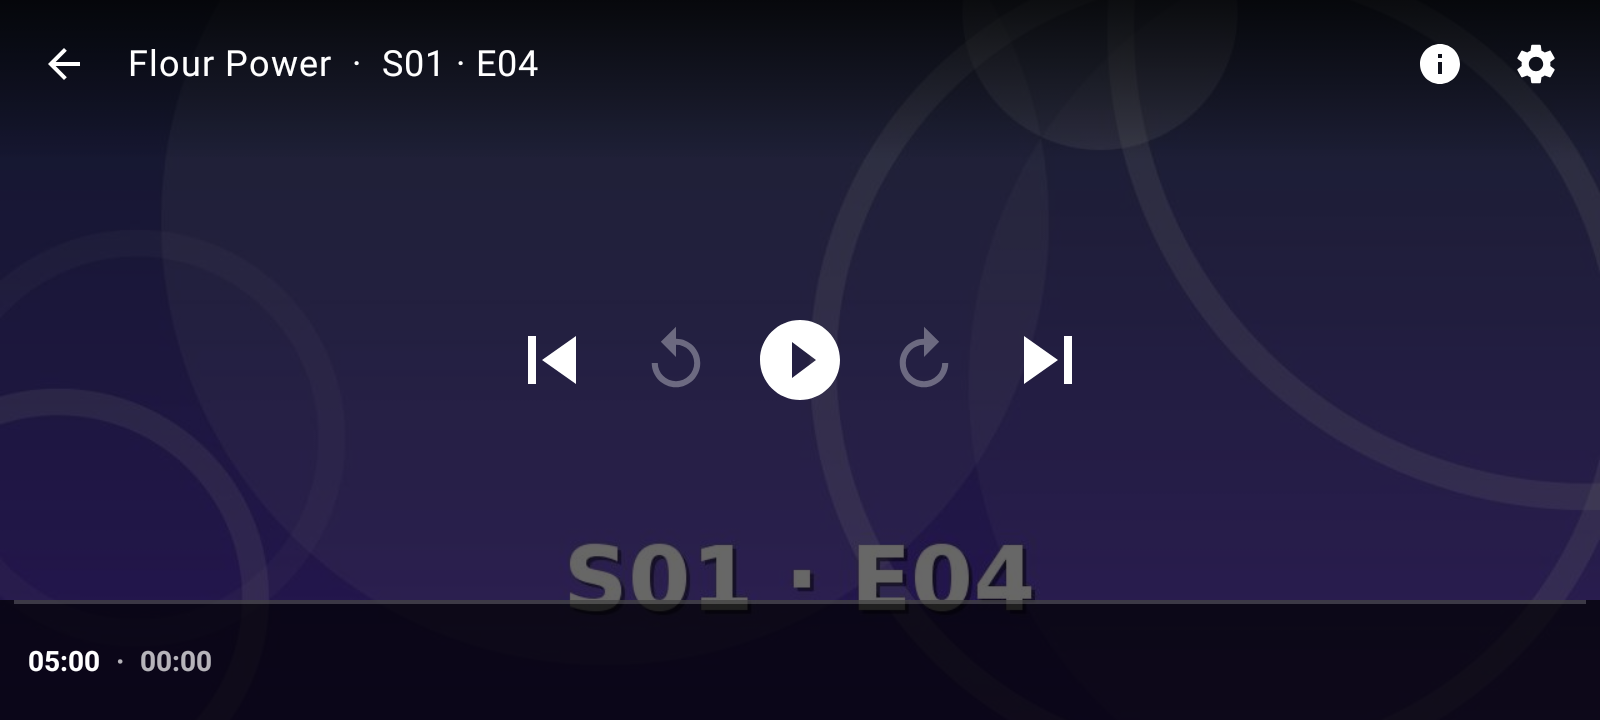
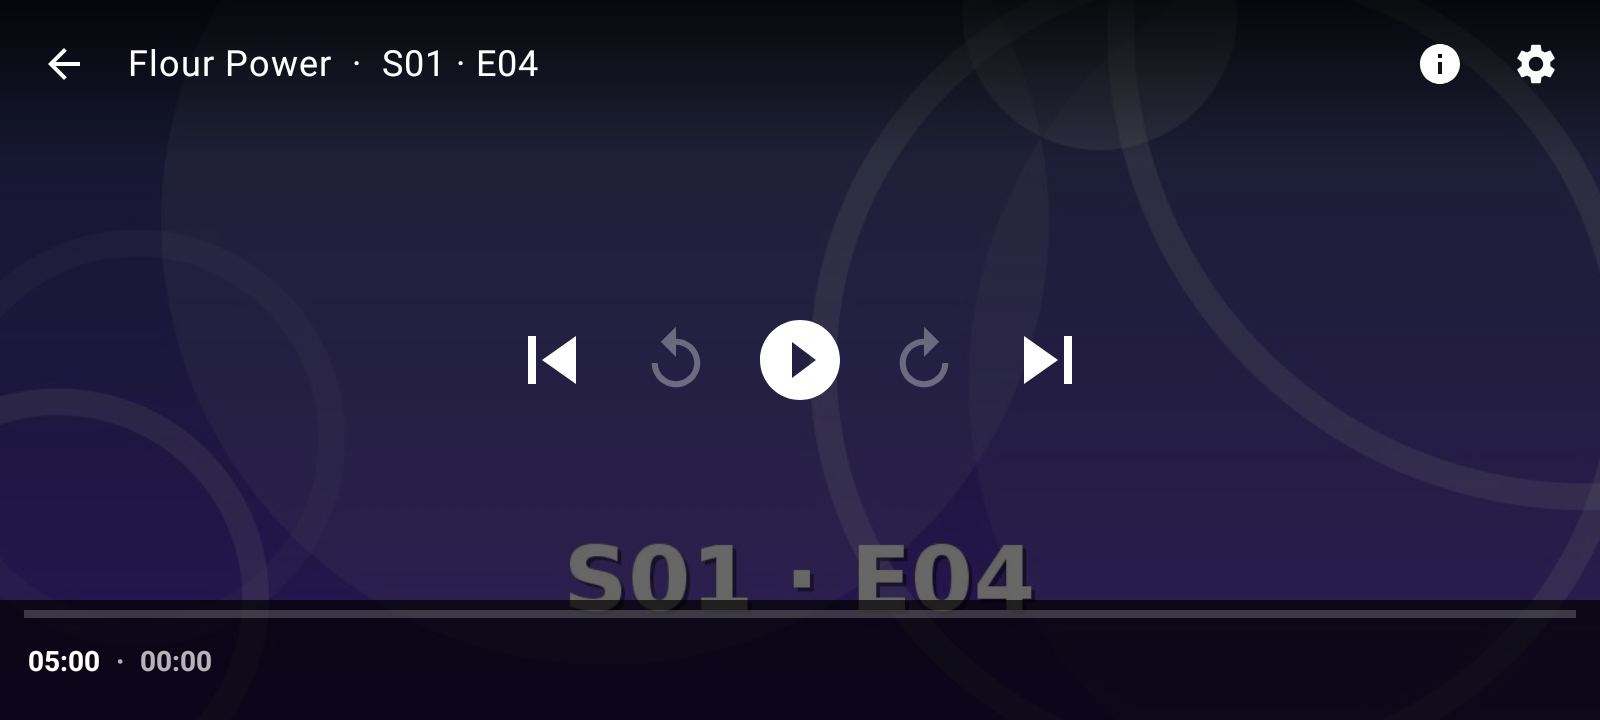
* player touch: larger seek bar target, edges left to Android, accent colour above 100 % (closes #164) (#165)
* seek bar takes touches over 80 dp, thumb larger, line centred in its band
* a swipe from the screen edges and corners no longer changes volume or brightness
* volume and brightness above 100 % show in the accent colour
* closes #164

Changed region(s): [[0.0, 0.825, 1.0, 0.8556]]

diff --git a/app/src/main/kotlin/com/hawkynt/mediadroid/ui/PlayerGestures.kt b/app/src/main/kotlin/com/hawkynt/mediadroid/ui/PlayerGestures.kt
@@ -9,7 +9,15 @@ import androidx.compose.ui.Modifier
 import androidx.compose.ui.geometry.Offset
 import androidx.compose.ui.input.pointer.pointerInput
 import androidx.compose.ui.input.pointer.positionChange
+import androidx.compose.ui.unit.dp
+import com.hawkynt.mediadroid.player.PlaybackMath
 import kotlin.math.abs
+
+/** How far in from the left and right edge the back gesture reaches. */
+private val SIDE_BAND = 28.dp
+
+/** How far in from the top and bottom edge the status bar and navigation are reached. */
+private val END_BAND = 72.dp
 
 /** Which half of the picture a gesture started on. */
 enum class Side { LEFT, RIGHT }
@@ -18,7 +26,8 @@ enum class Side { LEFT, RIGHT }
  * The touch language of the streaming apps' players, on the bare picture:
  * - tap: controls on or off,
  * - double tap: [onDoubleTap] with the half tapped (left back, right ahead),
- * - one-finger vertical swipe: [onSwipe] with the half and how far up, as a fraction of the height,
+ * - one-finger vertical swipe: [onSwipe] with the half and how far up, as a fraction of the height; not from
+ *   the screen's edges and corners, which stay with Android's own gestures,
  * - two fingers: [onPinch] with the zoom factor and the pan of this movement.
  */
 fun Modifier.playerGestures(
@@ -39,6 +48,14 @@ fun Modifier.playerGestures(
         awaitEachGesture {
             val down = awaitFirstDown(requireUnconsumed = false)
             val side = if (down.position.x < size.width / 2) Side.LEFT else Side.RIGHT
+            val mayLevel = PlaybackMath.startsLevelSwipe(
+                down.position.x,
+                down.position.y,
+                size.width.toFloat(),
+                size.height.toFloat(),
+                SIDE_BAND.toPx(),
+                END_BAND.toPx(),
+            )
             var swiping = false
             var travelled = Offset.Zero
             while (true) {
@@ -53,7 +70,7 @@ fun Modifier.playerGestures(
                 }
                 val change = pressed.first()
                 val delta = change.positionChange()
-                if (!swiping) {
+                if (!swiping && mayLevel) {
                     travelled += delta
                     // Only a mainly vertical movement past the slop is a swipe; a tap stays a tap.
                     if (abs(travelled.y) > slop && abs(travelled.y) > abs(travelled.x) * 1.5f) swiping = true

diff --git a/app/src/main/kotlin/com/hawkynt/mediadroid/ui/PlayerScreen.kt b/app/src/main/kotlin/com/hawkynt/mediadroid/ui/PlayerScreen.kt
@@ -488,8 +488,11 @@ fun PlayerScreen(
     // Short-lived on-screen confirmation of a gesture: "+15 s", "Volume 40 %".
     var feedback by remember { mutableStateOf<String?>(null) }
     var feedbackStamp by remember { mutableIntStateOf(0) }
-    fun show(text: String) {
+    // Whether the shown text is a level past the device's maximum, which shows in the accent colour.
+    var feedbackBoosted by remember { mutableStateOf(false) }
+    fun show(text: String, boosted: Boolean = false) {
         feedback = text
+        feedbackBoosted = boosted
         feedbackStamp++
     }
     // Holding a skip button (on screen or on a remote) steps further the longer it is held; the target
@@ -889,13 +892,13 @@ fun PlayerScreen(
                         screenBrightness = brightness.coerceIn(0.01f, 1f)
                     }
                 }
-                show("Brightness ${PlaybackMath.percent(brightness)} %")
+                show("Brightness ${PlaybackMath.percent(brightness)} %", PlaybackMath.isBoosted(brightness))
             }
             Side.RIGHT -> {
                 volume = PlaybackMath.boostedLevel(volume, upFraction)
                 loudnessBoostDb = PlaybackMath.boostDb(volume)
                 audio.setStreamVolume(AudioManager.STREAM_MUSIC, (volume.coerceAtMost(1f) * maxVolume).roundToInt(), 0)
-                show("Volume ${PlaybackMath.percent(volume)} %")
+                show("Volume ${PlaybackMath.percent(volume)} %", PlaybackMath.isBoosted(volume))
             }
         }
     }
@@ -1184,7 +1187,7 @@ fun PlayerScreen(
         feedback?.takeIf { !inPip }?.let {
             Text(
                 it,
-                color = Color.White,
+                color = if (feedbackBoosted) com.hawkynt.mediadroid.ui.theme.MediaDroidColors.Amber else Color.White,
                 fontSize = 22.sp,
                 modifier = Modifier
                     .align(Alignment.Center)

diff --git a/core/player/src/test/kotlin/com/hawkynt/mediadroid/player/PlaybackMathTest.kt b/core/player/src/test/kotlin/com/hawkynt/mediadroid/player/PlaybackMathTest.kt
@@ -264,6 +264,36 @@ class PlaybackMathTest {
     }
 
     @Test
+    fun `a swipe from the middle of the screen sets a level`() {
+        assertTrue(PlaybackMath.startsLevelSwipe(540f, 1200f, 1080f, 2400f, sideBand = 70f, endBand = 180f))
+    }
+
+    @Test
+    fun `swipes from the top and bottom edges and the corners stay with Android`() {
+        fun starts(x: Float, y: Float) = PlaybackMath.startsLevelSwipe(x, y, 1080f, 2400f, 70f, 180f)
+        assertFalse(starts(540f, 100f))
+        assertFalse(starts(540f, 2300f))
+        assertFalse(starts(30f, 30f))
+        assertFalse(starts(1050f, 2380f))
+    }
+
+    @Test
+    fun `swipes from the side edges stay with the back gesture`() {
+        fun starts(x: Float) = PlaybackMath.startsLevelSwipe(x, 1200f, 1080f, 2400f, 70f, 180f)
+        assertFalse(starts(40f))
+        assertFalse(starts(1040f))
+        assertTrue(starts(70f))
+        assertTrue(starts(1010f))
+    }
+
+    @Test
+    fun `a level counts as boosted only above the device's maximum`() {
+        assertFalse(PlaybackMath.isBoosted(0.5f))
+        assertFalse(PlaybackMath.isBoosted(1f))
+        assertTrue(PlaybackMath.isBoosted(1.01f))
+    }
+
+    @Test
     fun `the sound waits for a picture frames behind by the video's own frame rate`() {
         assertEquals(80, PlaybackMath.pictureLatencyMs(frames = 2f, frameRate = 25f, measuredMs = 140))
         assertEquals(167, PlaybackMath.pictureLatencyMs(frames = 5f, frameRate = 29.97f, measuredMs = 0))

diff --git a/core/player/src/main/kotlin/com/hawkynt/mediadroid/player/PlaybackMath.kt b/core/player/src/main/kotlin/com/hawkynt/mediadroid/player/PlaybackMath.kt
@@ -53,6 +53,17 @@ object PlaybackMath {
     /** Loudness gain for a volume level past the device maximum: the boost factor in dB (up to +18 dB). */
     fun boostDb(level: Float): Float = 20f * log10(boostFactor(level))
 
+    /** Whether [level] is past the device's own maximum (see [boostedLevel]). */
+    fun isBoosted(level: Float): Boolean = level > 1f
+
+    /**
+     * Whether a swipe from ([x], [y]) sets a level: not from within [sideBand] of the left and right edge, where
+     * Android's back gesture starts, nor within [endBand] of the top and bottom, where its status bar and
+     * navigation are reached — so the corners too stay with the system.
+     */
+    fun startsLevelSwipe(x: Float, y: Float, width: Float, height: Float, sideBand: Float, endBand: Float): Boolean =
+        x >= sideBand && x <= width - sideBand && y >= endBand && y <= height - endBand
+
     /** Gamma factor for a brightness level past the device maximum: the square root of the boost, at most ≈2.8. */
     fun gammaBoost(level: Float): Float = sqrt(boostFactor(level))
 

diff --git a/README.md b/README.md
@@ -71,7 +71,7 @@ Media libraries on Android are usually either a raw file browser or a client of 
 - For TV boxes, two guarded settings: matching the display's refresh rate to the film's frame rate (or a whole multiple — no judder at 23.976 fps), and audio passthrough that hands AC3/E-AC3/DTS/TrueHD untouched to an AV receiver over HDMI where the device supports it.
 - Video plays on the device's own hardware decoders; the bundled FFmpeg decoders only step in for what they cannot play — WMV, VC-1, RealVideo, DV, MS-MPEG4 and whatever a device lacks — in software. Settings can put software decoding first, with a warning: it drains the battery fast and is meant for videos that otherwise do not play at all or only with errors.
 - The player's gear holds playback speed on one slider from 0.2× to 5× in steps of 0.05× — logarithmic, so 1× sits in the middle, with a button back to 1× (starting at the default speed, set the same way in Settings) — subtitles and track pickers, and brightness/gamma/contrast/color for the video on screen — remembered per video, live as you drag, and the picture size: Fit, Fill (crop to the screen) or Stretch. Filters beside them — sharpness and clarity (unsharp masking on the luma, small and large radius) and noise on one slider — to the left removed, more strongly the further (a bilateral filter that smooths noise and MPEG blocks but keeps edges), to the right fine film grain added, which hides banding and makes cleaned or enlarged SD look natural —, and deinterlacing — Auto (rebuilds the second field's lines only where the picture combs, so progressive video passes untouched), Blend, Bob, or the temporal YADIF and BWDIF (converted from FFmpeg's filters, and agreeing with them byte for byte: they weigh the frames before and after too, so still parts keep their full detail; the picture runs one frame behind and the sound waits as long; which field comes first is told from the pictures themselves, as FFmpeg's idet does), which can also show every field as a picture of its own — 50 or 60 a second, motion as the camera saw it — or Film, for films on NTSC video (24 frames a second spread over 30 by 3:2 pulldown): each film frame's fields put back together and the repeated frame of every five dropped, the other four shown evenly — the film's own 24 a second, without combing or deinterlacing blur (converted from FFmpeg's fieldmatch and decimate and agreeing with them; a frame still combed after matching goes through YADIF; the picture runs about five frames behind and the sound waits as long) — and upscaling for pictures smaller than the screen — Standard, Lanczos-3, AMD FidelityFX Super Resolution 1 (edge-adaptive upscaling and contrast-adaptive sharpening), EWA Lanczos-sharp (libplacebo's sharpened Jinc over a circle, so diagonals enlarge without a staircase), or NVIDIA Image Scaling (a 6-tap scaler blended with directional filters by how the picture's edges run, with sharpening by brightness that holds back ringing) — EWA and NIS to twice the picture's size, the screen's scaling doing the rest — and smooth motion by frame blending in three strengths (each screen refresh shows the last two frames mixed by how far the clock is between them; the picture runs half a frame behind and the sound waits as long), or by motion: the pictures between built along the motion between the frames, so moving edges move instead of softening (converted from FFmpeg's minterpolate and agreeing with it byte for byte — a 16-pixel block search on a thread of its own, on the picture at a scale it picks as it plays — the whole picture down to a 32nd, a step coarser as soon as searches run long or come too late, a step finer when there has been room for it, overlapped-block compensation on the graphics chip; a cut is not bridged) — — run on the graphics chip in a stage of the app's own between decoder and screen, for the device's decoders and the bundled FFmpeg alike, on the phone and on a second screen; without a filter set the picture goes straight to the screen, and HDR videos skip them.
-- Touch on the bare picture: double tap left or right jumps 15 s back or ahead, a vertical swipe on the left half sets the screen brightness and on the right half the volume — both run on past the device's maximum up to 800 %, doubling every third of the extra stretch: louder through the app's loudness gain (soft-saturating, so quiet tracks come up without cracking peaks), brighter through a gamma lift — and a pinch zooms up to 4× and pans the zoomed picture.
+- Touch on the bare picture: double tap left or right jumps 15 s back or ahead, a vertical swipe on the left half sets the screen brightness and on the right half the volume — both run on past the device's maximum up to 800 %, doubling every third of the extra stretch: louder through the app's loudness gain (soft-saturating, so quiet tracks come up without cracking peaks), brighter through a gamma lift, the level then showing in the accent colour; swipes starting at the screen's edges and corners stay with Android's own gestures — and a pinch zooms up to 4× and pans the zoomed picture. The seek bar takes touches well above and below its line.
 - Next and Previous on the controls move through the episodes or the parts of a movie; Previous restarts the current one when it is more than 3 s in.
 - Turning the device keeps the player going: same video, same position, same open panel.
 - While the phone's own screen is mirrored to a TV (Smart View and the like), the player keeps its bars and the gear panel inside the centred 16:9 part a TV shows, so nothing is cut off.
